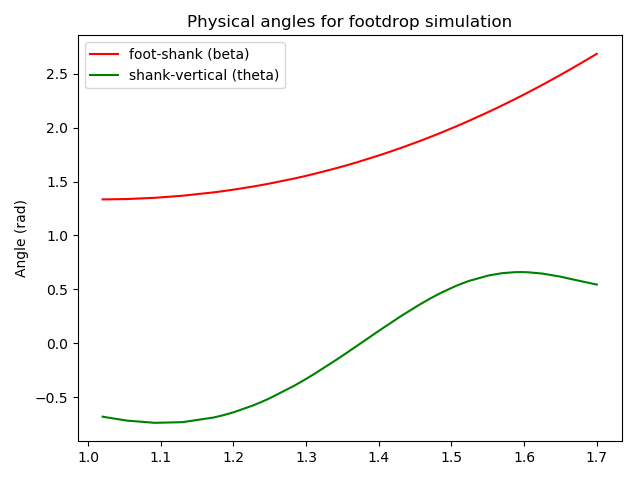
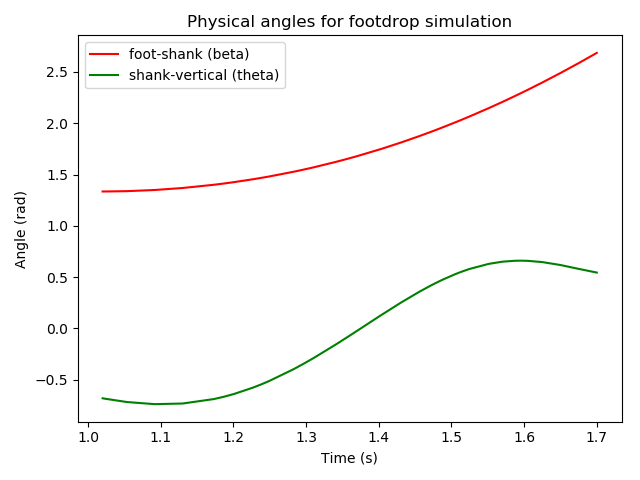
Make cleanup changes and get new results with axis title

diff --git a/gait_simulate.py b/gait_simulate.py
@@ -13,8 +13,7 @@ import regression as r
 
 
 # ******** GLOBAL CONSTANTS ********
-# TODO: UPDATE THESE ! Some are still missing 
-I_ANKLE = 20
+I_ANKLE = 0.5
 F_MAX_SOLEUS = 16000
 F_MAX_TIBIALIS = 2000
 MOMENT_ARM_SOLEUS = .048
@@ -34,8 +33,9 @@ MASS_TORSO = 50.42 # kg
 GRAVITY = 9.81 # N/kg
 
 
+
 class GaitSimulator:
-    def __init__(self, footDrop=False, fes=False, Kp=0, Kd=0):
+    def __init__(self, footDrop=False, fes=False, Kp=0, Kd=0, Ki=0):
         """
         :param N: number of gait cycles to simulate for 
         :param footDrop: boolean flag for foot drop simulation
@@ -48,12 +48,16 @@ class GaitSimulator:
         self.fes = fes 
         self.Kp = Kp 
         self.Kd = Kd 
+        self.Ki = Ki
 
         rest_length_soleus = soleus_length(np.pi/2)
         rest_length_tibialis = tibialis_length(np.pi/2)
 
         self.soleus = HillTypeMuscle(F_MAX_SOLEUS, .6*rest_length_soleus, .4*rest_length_soleus)
         self.tibialis = HillTypeMuscle(F_MAX_TIBIALIS, .6*rest_length_tibialis, .4*rest_length_tibialis)
+
+        self.total_error = 0
+        self.last_error = None
 
     # ******** CLASS METHODS ********
     def suffix(self):
@@ -65,20 +69,14 @@ class GaitSimulator:
             return "normal"
 
         
-    def get_soleus_activation(self, t, beta, d_beta, theta):
+    def get_soleus_activation(self, t):
         """
         :param t: current time 
-        :param beta: angle from foot to shank
-        :param theta: angle from shank to vertical
-        :param d_beta: derivative of beta
-        :param d_theta: derivative of theta
         :return the practical soleus activation for the type of simulation
         """
-        a = r.soleus_activation(t)[0]
+        return r.soleus_activation(t)[0]
 
-        return a
-
-    def get_tibialis_activation(self, t, beta, d_beta, theta):
+    def get_tibialis_activation(self, t, beta, theta):
         """
         :param t: current time 
         :param beta: angle from foot to shank
@@ -93,7 +91,7 @@ class GaitSimulator:
             a = 0
         if self.fes:
             # add excitation
-            a = a + self.get_tibialis_excitation(t, beta, d_beta, theta)
+            a = a + self.get_tibialis_excitation(t, beta, theta)
 
         return a
 
@@ -144,8 +142,8 @@ class GaitSimulator:
         K = r.knee_angle(t)
         theta = K - H
         
-        activation_tibialis = self.get_tibialis_activation(t, beta, d_beta, theta)
-        activation_soleus = self.get_soleus_activation(t, beta, d_beta, theta)
+        activation_tibialis = self.get_tibialis_activation(t, beta, theta)
+        activation_soleus = self.get_soleus_activation(t)
 
         # calculated
         l_soleus = soleus_length(beta)
@@ -161,7 +159,7 @@ class GaitSimulator:
         # derivative of state: 
         xd = [0, 0, 0, 0]
         xd[0] = d_beta
-        xd[1] = -(torque_tibant - torque_soleus - gravity_moment_ankle(beta, theta, H)) / 0.5
+        xd[1] = -(torque_tibant - torque_soleus - gravity_moment_ankle(beta, theta)) / I_ANKLE
         xd[2] = vm_soleus
         xd[3] = vm_tibialis
         return xd
@@ -243,8 +241,8 @@ class GaitSimulator:
         for t, b, d_b, th, ls, lt in zip(time, beta, d_beta, theta, soleus_norm_length_muscle, tibialis_norm_length_muscle):
             l_tendon_norm_soleus = self.soleus.norm_tendon_length(soleus_length(b), ls)
             l_tendon_norm_tibialis = self.tibialis.norm_tendon_length(tibialis_length(b), lt)
-            torque_soleus = force_length_tendon_single_val(l_tendon_norm_soleus) * F_MAX_SOLEUS * self.get_soleus_activation(t, b, d_b, th) * MOMENT_ARM_SOLEUS
-            torque_tibant = force_length_tendon_single_val(l_tendon_norm_tibialis) * F_MAX_TIBIALIS * self.get_tibialis_activation(t, b, d_b, th) * MOMENT_ARM_TIBIALIS
+            torque_soleus = force_length_tendon_single_val(l_tendon_norm_soleus) * F_MAX_SOLEUS * self.get_soleus_activation(t) * MOMENT_ARM_SOLEUS
+            torque_tibant = force_length_tendon_single_val(l_tendon_norm_tibialis) * F_MAX_TIBIALIS * self.get_tibialis_activation(t, b, th) * MOMENT_ARM_TIBIALIS
             
             soleus_moment.append(-torque_soleus)
             tibialis_moment.append(torque_tibant)
@@ -252,9 +250,9 @@ class GaitSimulator:
             toe_height.append(HIP_HEIGHT - np.cos(np.pi - r.hip_angle(t))*THIGH_LENGTH - SHANK_LENGTH*np.cos(abs(th)) + FOOT_LENGTH*np.sin(np.pi/2 - b + th)) 
             excit_soleus.append(self.get_soleus_excitation(t, b, d_b, th))
             excit_tibialis.append(self.get_tibialis_excitation(t, b, d_b, th))
-            act_soleus.append(self.get_soleus_activation(t, b, d_b, th))
-            act_tibialis.append(self.get_tibialis_activation(t, b, d_b, th))
-            grav_ankle_moment.append(gravity_moment_ankle(b, th, r.hip_angle(t)))
+            act_soleus.append(self.get_soleus_activation(t))
+            act_tibialis.append(self.get_tibialis_activation(t, b, th))
+            grav_ankle_moment.append(gravity_moment_ankle(b, th))
 
         print("\nMuscle fatigue:")
         print("Soleus = {}".format(np.trapz(act_soleus)))
@@ -267,6 +265,7 @@ class GaitSimulator:
         plt.plot(time, theta, 'g')
         plt.legend(('foot-shank (beta)', 'shank-vertical (theta)'))
         plt.ylabel('Angle (rad)')
+        plt.xlabel('Time (s)')
         plt.tight_layout()
         plt.savefig("outputs/angles_{}.png".format(self.suffix()))
 
@@ -344,19 +343,14 @@ def tibialis_length(beta):
     return np.sqrt(difference[0]**2 + difference[1]**2)
 
 
-def gravity_moment_ankle(beta, theta, H):
+def gravity_moment_ankle(beta, theta):
     """
     :param theta: angle of foot relative to shank
     :param beta: angle of shank relative to vertical 
     :param t: current time in seconds 
     :return moment about ankle due to force of gravity on body
     """
-    torso_moment = MASS_TORSO*GRAVITY*(THIGH_LENGTH*np.sin(np.pi - H) + SHANK_LENGTH*np.sin(theta))
-    foot_moment = MASS_FOOT*GRAVITY*D_COM_SHANK_ANKLE*np.cos(beta - theta - np.pi/2)
-    shank_moment = MASS_SHANK*GRAVITY*D_COM_SHANK_ANKLE*np.sin(theta)
-    thigh_moment = MASS_THIGH*GRAVITY*(D_COM_THIGH_KNEE*np.sin(np.pi - H) + SHANK_LENGTH*np.sin(theta))
-    # return -foot_moment + (shank_moment + thigh_moment + thigh_moment)
-    return foot_moment
+    return MASS_FOOT*GRAVITY*D_COM_SHANK_ANKLE*np.cos(beta - theta - np.pi/2)
 
 
 def plot_regressions(t0, tf):

diff --git a/main.py b/main.py
@@ -1,5 +1,8 @@
 from gait_simulate import GaitSimulator 
 import muscle
 
-g = GaitSimulator(True)
-g.simulate()
+GaitSimulator().simulate()
+
+GaitSimulator(True).simulate()
+
+# GaitSimulator(True, True, 1, 1/10, 1/100)
